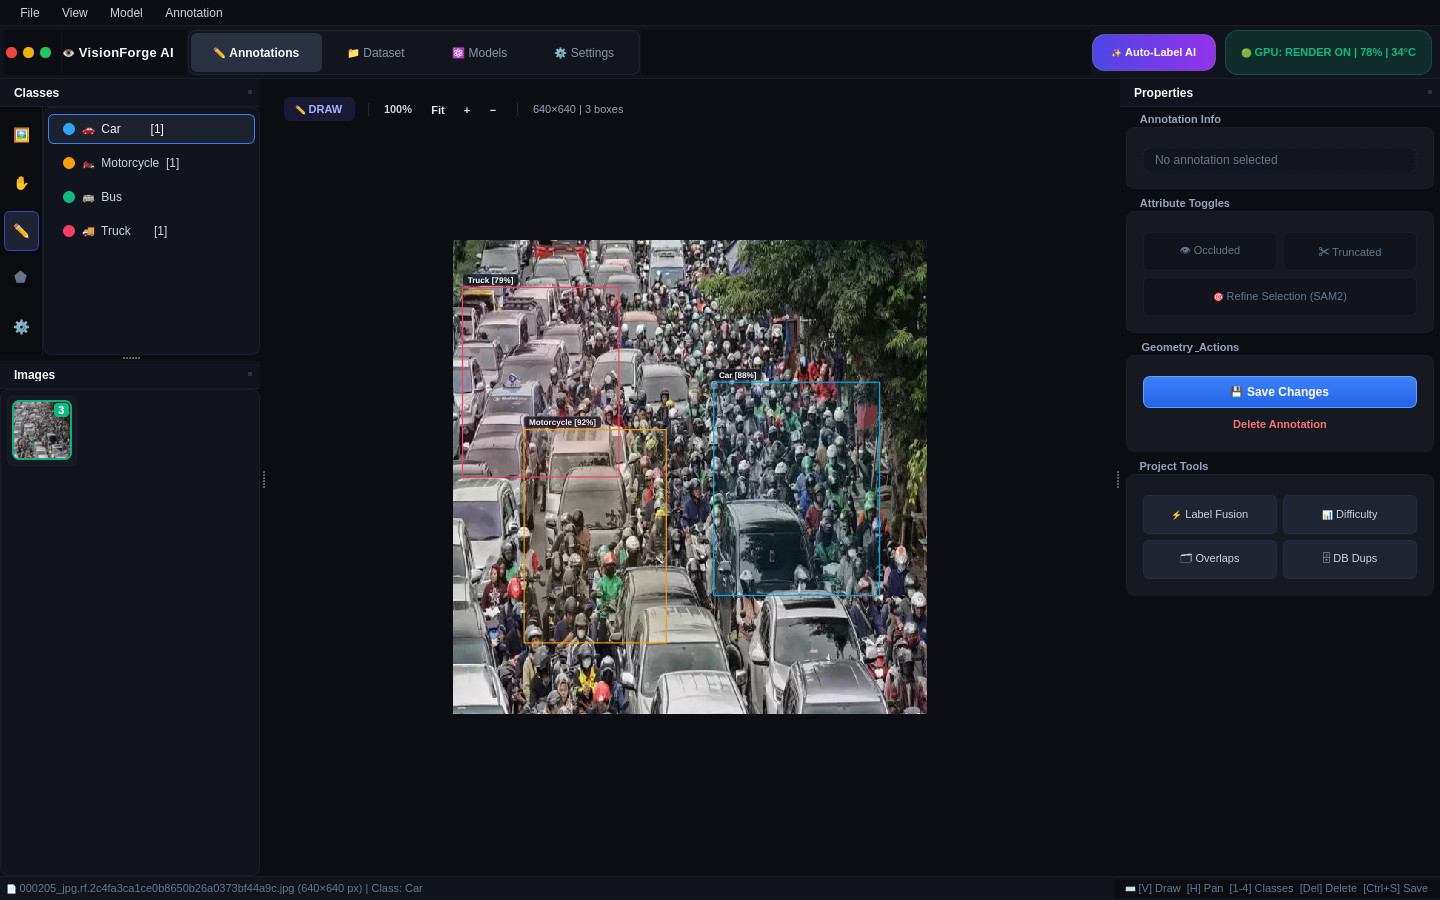
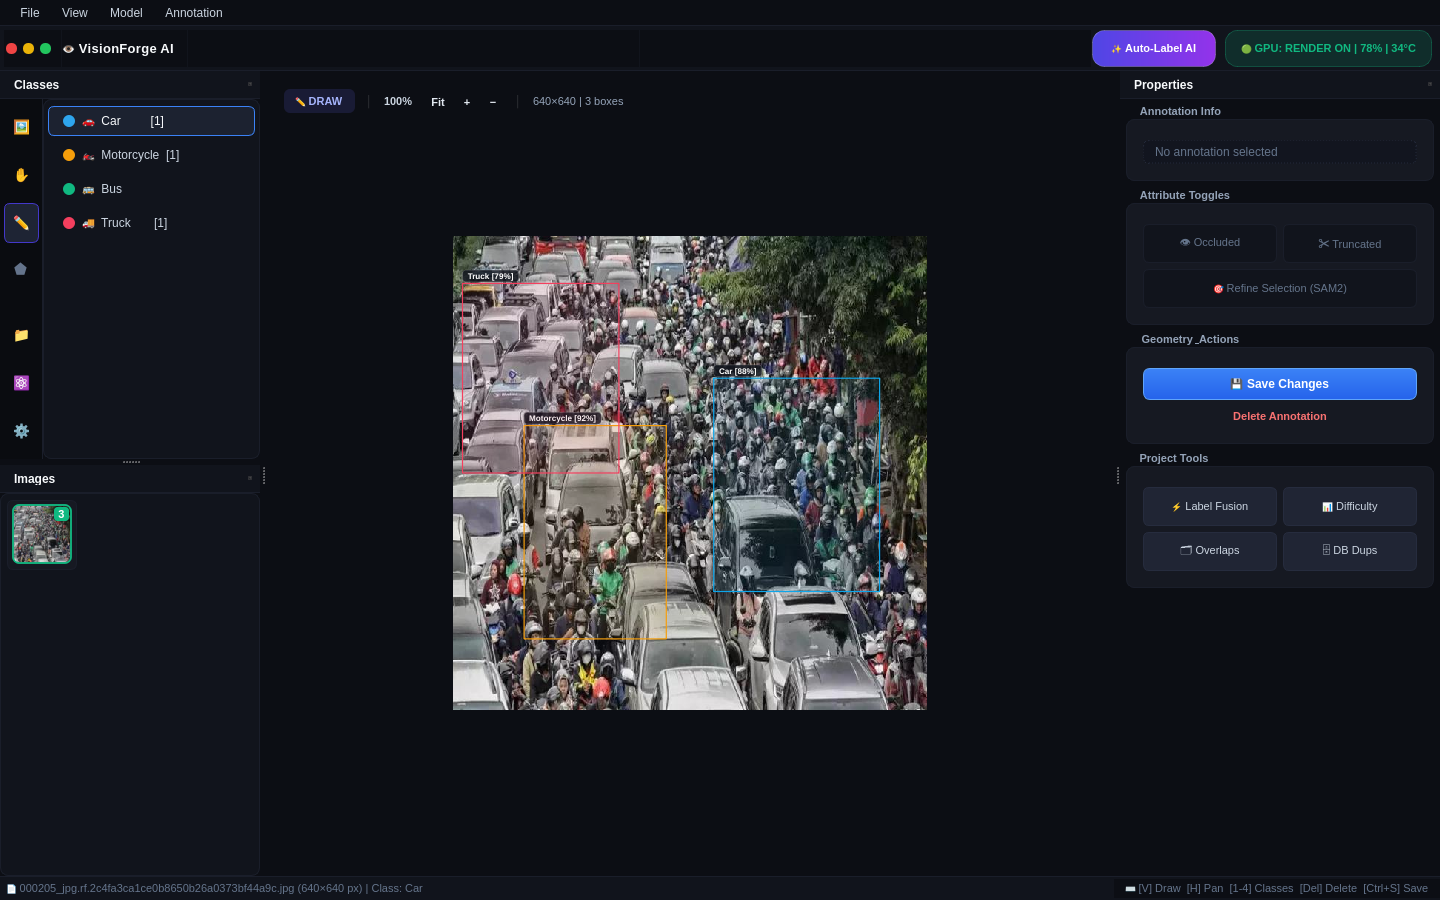
Move segmented navigation tabs to Activity Rail per user feedback

diff --git a/app/ui/main_window.py b/app/ui/main_window.py
@@ -641,48 +641,11 @@ class MainWindow(QMainWindow):
         brand_layout.addWidget(title_lbl)
         self._top_toolbar.addWidget(brand_widget)
 
-        # 3. Center Segmented View Buttons
-        seg_container = QWidget()
-        seg_layout = QHBoxLayout(seg_container)
-        seg_layout.setContentsMargins(3, 3, 3, 3)
-        seg_layout.setSpacing(2)
-        seg_container.setStyleSheet(
-            "background: #12151e; border: 1px solid #1f2433; border-radius: 8px;"
-        )
-
-        active_tab_style = (
-            "background: #2a3143; border: none; border-radius: 6px; "
-            "color: #ffffff; font-weight: 600; font-size: 12px; padding: 6px 18px;"
-        )
-        inactive_tab_style = (
-            "background: transparent; border: none; border-radius: 6px; "
-            "color: #8a93a6; font-weight: 500; font-size: 12px; padding: 6px 18px;"
-        )
-
-        ann_tab = QToolButton(self)
-        ann_tab.setText("✏ Annotations")
-        ann_tab.setCheckable(True)
-        ann_tab.setChecked(True)
-        ann_tab.setStyleSheet(active_tab_style)
-        seg_layout.addWidget(ann_tab)
-
-        dataset_tab = QToolButton(self)
-        dataset_tab.setText("📁 Dataset")
-        dataset_tab.setStyleSheet(inactive_tab_style)
-        dataset_tab.clicked.connect(self._import_folder)
-        seg_layout.addWidget(dataset_tab)
-
-        models_tab = QToolButton(self)
-        models_tab.setText("⚛ Models")
-        models_tab.setStyleSheet(inactive_tab_style)
-        models_tab.clicked.connect(self._load_yolo_model)
-        seg_layout.addWidget(models_tab)
-
-        settings_tab = QToolButton(self)
-        settings_tab.setText("⚙ Settings")
-        settings_tab.setStyleSheet(inactive_tab_style)
-        seg_layout.addWidget(settings_tab)
-        self._top_toolbar.addWidget(seg_container)
+        # We removed the center segmented view tabs per user request.
+        # Now we just add a spacer so the right-side badges align to the right edge.
+        spacer = QWidget()
+        spacer.setSizePolicy(QSizePolicy.Policy.Expanding, QSizePolicy.Policy.Preferred)
+        self._top_toolbar.addWidget(spacer)
 
         # Spacer
         spacer = QWidget()
@@ -753,8 +716,6 @@ class MainWindow(QMainWindow):
         rail_layout.setContentsMargins(4, 8, 4, 8)
         rail_layout.setSpacing(8)
 
-        # We keep only canvas interaction tools here.
-        # Global actions like Datasets and Models are in the Top Header.
         self._rail_select_btn = QToolButton(rail)
         self._rail_select_btn.setText("🖼")
         self._rail_select_btn.setToolTip("Select (Esc)")
@@ -788,6 +749,20 @@ class MainWindow(QMainWindow):
         rail_mode_group.addButton(self._rail_draw_btn)
         rail_mode_group.addButton(self._rail_polygon_btn)
         rail_mode_group.setExclusive(True)
+
+        rail_layout.addSpacing(16)
+
+        self._rail_dataset_btn = QToolButton(rail)
+        self._rail_dataset_btn.setText("📁")
+        self._rail_dataset_btn.setToolTip("Dataset (Ctrl+O)")
+        self._rail_dataset_btn.clicked.connect(self._import_folder)
+        rail_layout.addWidget(self._rail_dataset_btn)
+
+        self._rail_models_btn = QToolButton(rail)
+        self._rail_models_btn.setText("⚛")
+        self._rail_models_btn.setToolTip("Models")
+        self._rail_models_btn.clicked.connect(self._load_yolo_model)
+        rail_layout.addWidget(self._rail_models_btn)
 
         rail_layout.addStretch()
 
